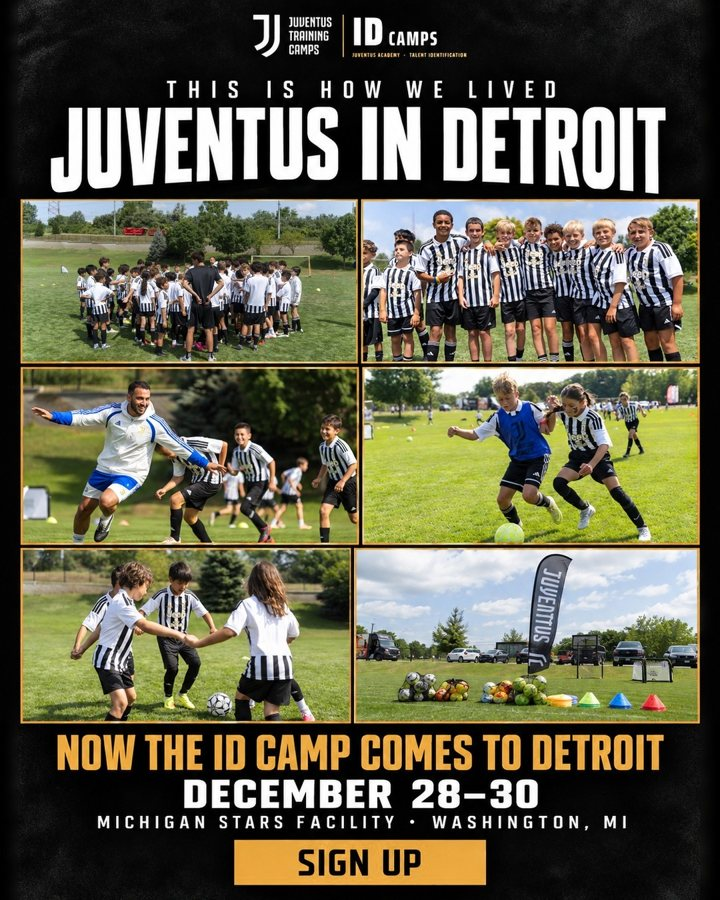
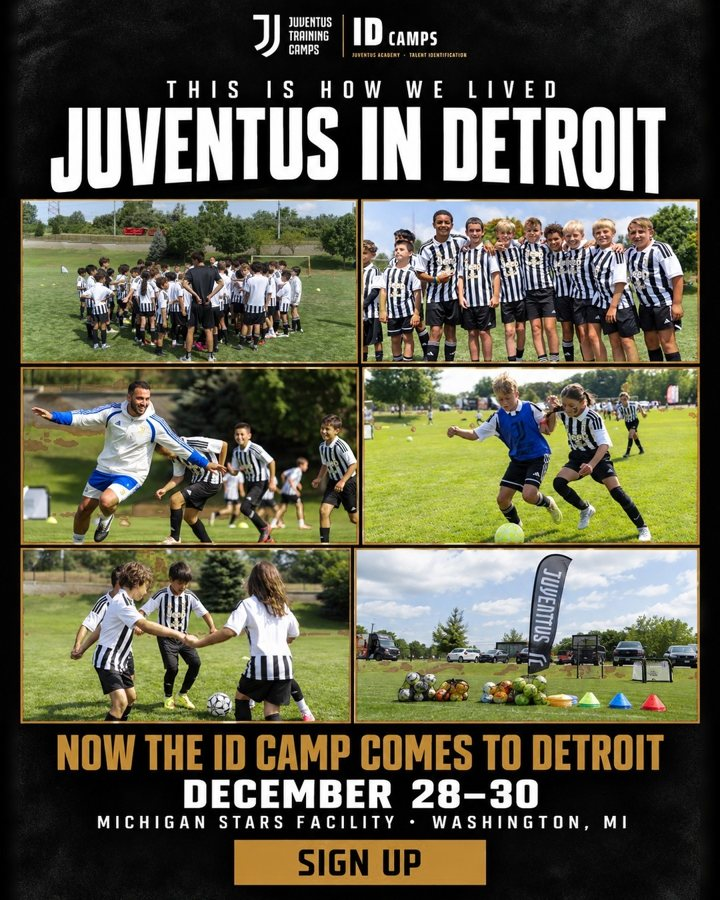
Detroit: dorado igual al de las demás sedes (Atlanta)

diff --git a/index.html b/index.html
@@ -112,7 +112,7 @@ footer{margin-top:40px;color:var(--muted);font-size:14px;border-top:1px solid va
   <article class="ad" data-id="DET_1">
   <header><span class="num">1</span><h3>HERO-POSTER (Imagen)</h3><span class="idi">Inglés</span><span class="estado" data-estado>Lista</span></header>
   <div class="cuerpo">
-    <div class="media"><img src="assets/DET_1.jpg?v=1793597606" data-grande="assets/DET_1_g.jpg?v=1793597606" class="ampliable" alt="HERO-POSTER (Imagen) · Detroit" title="Clic para verla en grande"></div>
+    <div class="media"><img src="assets/DET_1.jpg?v=1793599090" data-grande="assets/DET_1_g.jpg?v=1793599090" class="ampliable" alt="HERO-POSTER (Imagen) · Detroit" title="Clic para verla en grande"></div>
     <div class="copy">
       <div class="lbl">Texto principal <span class="hint">· se puede editar</span></div>
       <div class="tp ed" contenteditable="true" spellcheck="true" data-campo="texto">The Juventus ID Camp is coming to Detroit! ⚪⚫<br><br>Three days of Juventus training this winter break with Juventus Academy coaches: December 28–30 at the Michigan Stars Facility in Washington, MI.<br><br>⚽ Boys &amp; girls<br>🕘 Ages 6–14: 9 AM – 12 PM<br>🕐 Ages 15–19: 1 PM – 4 PM<br><br>Sign up through the link 👇</div>
@@ -150,7 +150,7 @@ footer{margin-top:40px;color:var(--muted);font-size:14px;border-top:1px solid va
 </article><article class="ad" data-id="DET_3">
   <header><span class="num">3</span><h3>STATIC COACHES (Imagen)</h3><span class="idi">Inglés</span><span class="estado" data-estado>Lista</span></header>
   <div class="cuerpo">
-    <div class="media"><img src="assets/DET_3.jpg?v=1793598886" data-grande="assets/DET_3_g.jpg?v=1793598886" class="ampliable" alt="STATIC COACHES (Imagen) · Detroit" title="Clic para verla en grande"></div>
+    <div class="media"><img src="assets/DET_3.jpg?v=1793599090" data-grande="assets/DET_3_g.jpg?v=1793599090" class="ampliable" alt="STATIC COACHES (Imagen) · Detroit" title="Clic para verla en grande"></div>
     <div class="copy">
       <div class="lbl">Texto principal <span class="hint">· se puede editar</span></div>
       <div class="tp ed" contenteditable="true" spellcheck="true" data-campo="texto">Juventus Academy coaches are flying in from Italy to train your player, without leaving Detroit. 🇮🇹⚽<br><br>For three days, every session follows the Juventus methodology, and every player gets individual attention from the coaches.<br><br>📅 December 28–30<br>🕘 Ages 6–14: 9 AM – 12 PM · Ages 15–19: 1 PM – 4 PM<br>📍 Michigan Stars Facility, Washington, MI<br>⚽ Boys and girls, ages 6–19<br><br>Tap Sign Up to register your player 👇</div>
@@ -169,7 +169,7 @@ footer{margin-top:40px;color:var(--muted);font-size:14px;border-top:1px solid va
 </article><article class="ad" data-id="DET_4">
   <header><span class="num">4</span><h3>STATIC UN DÍA EN EL ID CAMP (Imagen)</h3><span class="idi">Inglés</span><span class="estado" data-estado>Lista</span></header>
   <div class="cuerpo">
-    <div class="media"><img src="assets/DET_4.jpg?v=1793598886" data-grande="assets/DET_4_g.jpg?v=1793598886" class="ampliable" alt="STATIC UN DÍA EN EL ID CAMP (Imagen) · Detroit" title="Clic para verla en grande"></div>
+    <div class="media"><img src="assets/DET_4.jpg?v=1793599090" data-grande="assets/DET_4_g.jpg?v=1793599090" class="ampliable" alt="STATIC UN DÍA EN EL ID CAMP (Imagen) · Detroit" title="Clic para verla en grande"></div>
     <div class="copy">
       <div class="lbl">Texto principal <span class="hint">· se puede editar</span></div>
       <div class="tp ed" contenteditable="true" spellcheck="true" data-campo="texto">This is a day at the Juventus ID Camp ⚽<br><br>Warm-up with Juventus Academy coaches from Italy, technique, games and closing. Every session follows the Juventus methodology, in small groups by age, and every player gets individual attention from the coaches.<br><br>📅 December 28–30<br>🕘 Ages 6–14: 9 AM – 12 PM · Ages 15–19: 1 PM – 4 PM<br>📍 Michigan Stars Facility, Washington, MI<br>⚽ Boys and girls, ages 6–19<br><br>No tryout needed. Tap Sign Up to register your player 👇</div>
@@ -188,7 +188,7 @@ footer{margin-top:40px;color:var(--muted);font-size:14px;border-top:1px solid va
 </article><article class="ad" data-id="DET_5">
   <header><span class="num">5</span><h3>STATIC ASÍ SE VIVIÓ (Imagen)</h3><span class="idi">Inglés</span><span class="estado" data-estado>Lista</span></header>
   <div class="cuerpo">
-    <div class="media"><img src="assets/DET_5.jpg?v=1793598886" data-grande="assets/DET_5_g.jpg?v=1793598886" class="ampliable" alt="STATIC ASÍ SE VIVIÓ (Imagen) · Detroit" title="Clic para verla en grande"></div>
+    <div class="media"><img src="assets/DET_5.jpg?v=1793599091" data-grande="assets/DET_5_g.jpg?v=1793599091" class="ampliable" alt="STATIC ASÍ SE VIVIÓ (Imagen) · Detroit" title="Clic para verla en grande"></div>
     <div class="copy">
       <div class="lbl">Texto principal <span class="hint">· se puede editar</span></div>
       <div class="tp ed" contenteditable="true" spellcheck="true" data-campo="texto">This is how we lived Juventus in Detroit 🇮🇹⚽<br><br>Boys and girls training with Juventus coaches, learning and enjoying every session. Now the Juventus ID Camp comes to Detroit, December 28–30.<br><br>📅 December 28–30<br>🕘 Ages 6–14: 9 AM – 12 PM · Ages 15–19: 1 PM – 4 PM<br>📍 Michigan Stars Facility, Washington, MI<br>⚽ Boys and girls, ages 6–19<br><br>Tap Sign Up to register your player 👇</div>
@@ -207,7 +207,7 @@ footer{margin-top:40px;color:var(--muted);font-size:14px;border-top:1px solid va
 </article><article class="ad" data-id="DET_6">
   <header><span class="num">6</span><h3>STATIC JUVENTUS WAY (Imagen)</h3><span class="idi">Inglés</span><span class="estado" data-estado>Lista</span></header>
   <div class="cuerpo">
-    <div class="media"><img src="assets/DET_6.jpg?v=1793598886" data-grande="assets/DET_6_g.jpg?v=1793598886" class="ampliable" alt="STATIC JUVENTUS WAY (Imagen) · Detroit" title="Clic para verla en grande"></div>
+    <div class="media"><img src="assets/DET_6.jpg?v=1793599091" data-grande="assets/DET_6_g.jpg?v=1793599091" class="ampliable" alt="STATIC JUVENTUS WAY (Imagen) · Detroit" title="Clic para verla en grande"></div>
     <div class="copy">
       <div class="lbl">Texto principal <span class="hint">· se puede editar</span></div>
       <div class="tp ed" contenteditable="true" spellcheck="true" data-campo="texto">Physical. Technical. Tactical. ⚪⚫<br><br>That’s the Juventus way, and this December your player trains it in Detroit, with Juventus Academy coaches from Italy. Three days, the three parts in every session, adapted to every age group.<br><br>📅 December 28–30<br>🕘 Ages 6–14: 9 AM – 12 PM · Ages 15–19: 1 PM – 4 PM<br>📍 Michigan Stars Facility, Washington, MI<br>⚽ Boys and girls, ages 6–19<br><br>Tap Sign Up to register your player 👇</div>
